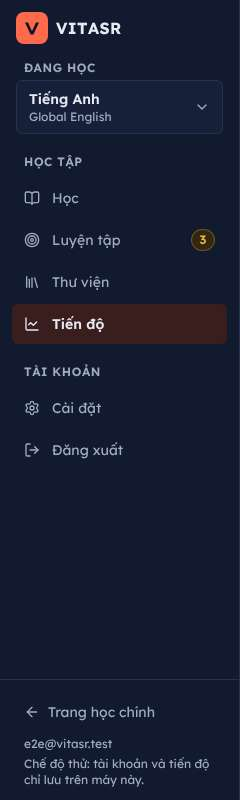
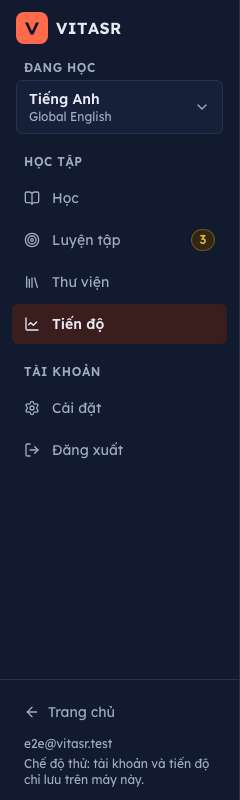
fix(APP-12, C5-07): liên kết cuối thanh bên là Trang chủ về Landing của website, đi qua chặn rời phiên; bỏ liên kết tới trang học chính cũ và biến NEXT_PUBLIC_HOST_URL; test APP-AC18, C5-AC06; ảnh APP-AC19 chụp lại

diff --git a/tests/unit/shell.test.tsx b/tests/unit/shell.test.tsx
@@ -1,7 +1,6 @@
 // Khung khu học C5 (thanh bên, header, menu trượt) và các phần của khung app đi kèm (APP-02, APP-12, APP-15).
 import { afterEach, describe, expect, it } from 'vitest';
 import { fireEvent, screen, within } from '@testing-library/react';
-import { HOST_URL } from '@/lib/host-url';
 import { NOW, TEST_USER, fakeAuth, here, renderApp, settingsSeed, settle } from './helpers';
 import { routerCalls } from './router-mock';
 
@@ -135,19 +134,37 @@ describe('C5 Khung khu học', () => {
   });
 
   // @ac C5-AC06, APP-AC18
-  it('chân thanh bên: liên kết Trang học chính, email người đang đăng nhập, dòng chế độ thử', async () => {
+  it('chân thanh bên: liên kết Trang chủ về Landing, email người đang đăng nhập, dòng chế độ thử', async () => {
     const a = await renderApp('/hoc', { seed: settingsSeed() });
-    const host = within(sidebar()).getByRole('link', { name: 'Trang học chính' });
-    expect(host).toHaveAttribute('href', HOST_URL);
-    expect(HOST_URL).toBe('https://language.pomaskhoahocnaobo.com/');
-    // Liên kết thường (không qua router của app): bấm thì rời app.
-    expect(host).toHaveAttribute('data-testid', 'host-link');
+    const home = within(sidebar()).getByRole('link', { name: 'Trang chủ' });
+    expect(home).toHaveAttribute('href', '/');
+    expect(home).toHaveAttribute('data-testid', 'home-link');
+    expect(document.querySelector('a[href*="pomaskhoahocnaobo"]')).toBeNull();
     expect(within(sidebar()).getByTestId('user-email')).toHaveTextContent(TEST_USER.email);
     expect(within(sidebar()).getByTestId('local-mode')).toHaveTextContent('Chế độ thử: tài khoản và tiến độ chỉ lưu trên máy này.');
     a.unmount();
     await renderApp('/hoc', { seed: settingsSeed(), auth: { ...fakeAuth(), mode: 'supabase' } });
     expect(within(sidebar()).queryByTestId('local-mode')).toBeNull();
     expect(within(sidebar()).getByTestId('user-email')).toHaveTextContent(TEST_USER.email);
+  });
+
+  // @ac APP-AC18
+  it('bấm Trang chủ giữa phiên học thì hỏi trước; ngoài phiên thì về Landing', async () => {
+    await renderApp('/hoc', { seed: settingsSeed() });
+    fireEvent.click(screen.getByRole('button', { name: 'Học 8 câu' }));
+    await settle(30);
+    const at = here();
+    expect(at).toMatch(/^\/phien-hoc/);
+    fireEvent.click(within(sidebar()).getByRole('link', { name: 'Trang chủ' }));
+    await settle(30);
+    expect(here()).toBe(at);
+    // Dừng về màn đã mở phiên (S3-07); bấm Trang chủ lần nữa thì về Landing.
+    fireEvent.click(within(screen.getByRole('dialog', { name: 'Dừng phiên học?' })).getByRole('button', { name: 'Dừng' }));
+    await settle(30);
+    expect(here()).toBe('/hoc');
+    fireEvent.click(within(sidebar()).getByRole('link', { name: 'Trang chủ' }));
+    await settle(30);
+    expect(here()).toBe('/');
   });
 });
 

diff --git a/tests/e2e/evidence-dot6.spec.ts b/tests/e2e/evidence-dot6.spec.ts
@@ -1020,7 +1020,7 @@ for (const theme of THEMES) {
     }
     await shot(page, 'APP-AC19', `1280-${theme}-chan-thanh-ben`, { el: '#app-sidebar' });
     out['chan-1280'] = await page.evaluate(() => {
-      const a = document.querySelector('[data-testid="host-link"]')!;
+      const a = document.querySelector('[data-testid="home-link"]')!;
       const sb = document.getElementById('app-sidebar')!;
       return { text: a.textContent, href: a.getAttribute('href'), h: Math.round(a.getBoundingClientRect().height), icon: a.querySelector('svg')?.getAttribute('class'), email: document.querySelector('[data-testid="user-email"]')?.textContent, chanThanhBen: (sb.lastElementChild as HTMLElement).innerText };
     });
@@ -1048,7 +1048,7 @@ for (const theme of THEMES) {
       header: header375,
       lopPhu: await page.getByTestId('menu-overlay').evaluate((e) => ({ nen: getComputedStyle(e).backgroundColor, z: getComputedStyle(e).zIndex })),
       muc: await page.locator('#app-sidebar nav a').evaluateAll((els) => els.map((a) => (a.textContent || '').trim())),
-      chan: await page.evaluate(() => Math.round(document.querySelector('[data-testid="host-link"]')!.getBoundingClientRect().height)),
+      chan: await page.evaluate(() => Math.round(document.querySelector('[data-testid="home-link"]')!.getBoundingClientRect().height)),
     };
     for (const [tab, route] of [
       ['T1', '/hoc'],
@@ -1244,7 +1244,7 @@ test('FND-AC16 chỉ dùng bàn phím: T1 → S3 → tổng kết → T4', async
   await focusTo('Thư viện');
   await shot(page, 'FND-AC16', '01-T1-focus-thanh-ben');
   log['01'] = await ring();
-  await focusTo('Trang học chính');
+  await focusTo('Trang chủ');
   await shot(page, 'FND-AC16', '02-T1-focus-trang-hoc-chinh');
   log['02'] = await ring();
   await focusTo(/^Học \d câu$/);

diff --git a/src/components/layout/public-footer.tsx b/src/components/layout/public-footer.tsx
@@ -1,9 +1,7 @@
-// @spec LP-06, APP-12
-import { ArrowLeft } from 'lucide-react';
+// @spec LP-06
 import { getTranslations } from 'next-intl/server';
 import { Link } from '@/i18n/navigation';
 import { PUBLIC_PATH } from '@/lib/routes';
-import { HOST_URL } from '@/lib/host-url';
 
 export async function PublicFooter() {
   const t = await getTranslations('public');
@@ -23,15 +21,6 @@ export async function PublicFooter() {
                 {t('register')}
               </Link>
             </li>
-            {HOST_URL && (
-              <li>
-                {/* APP-12: liên kết về trang học chính có icon mũi tên trái, như ở chân thanh bên. */}
-                <a className="inline-flex min-h-11 items-center gap-1.5 hover:text-foreground hover:underline" href={HOST_URL}>
-                  <ArrowLeft className="size-4 flex-none" aria-hidden />
-                  {t('hostLink')}
-                </a>
-              </li>
-            )}
           </ul>
         </nav>
       </div>

diff --git a/src/components/layout/home-link.tsx b/src/components/layout/home-link.tsx
@@ -1,0 +1,24 @@
+'use client';
+// @spec APP-12, C5-07
+// Liên kết "Trang chủ" ở chân thanh bên: về Landing của website. Đi qua AppLink để giữa phiên học vẫn hỏi trước khi rời (S3-07).
+import { ArrowLeft } from 'lucide-react';
+import { useTranslations } from 'next-intl';
+import { AppLink } from '@/components/ui/app-link';
+import { PUBLIC_PATH } from '@/lib/routes';
+import { cn } from '@/lib/utils';
+
+
+export function HomeLink({ className, onClick }: { className?: string; onClick?: () => void }) {
+  const t = useTranslations('shell');
+  return (
+    <AppLink
+      className={cn('flex min-h-10 items-center gap-2 rounded-dropdown px-3 py-2 text-sm text-muted-foreground hover:bg-muted hover:text-foreground', className)}
+      href={PUBLIC_PATH.home}
+      onClick={onClick}
+      data-testid="home-link"
+    >
+      <ArrowLeft className="size-4 flex-none" aria-hidden />
+      {t('homeLink')}
+    </AppLink>
+  );
+}

diff --git a/src/components/layout/app-shell.tsx b/src/components/layout/app-shell.tsx
@@ -17,7 +17,7 @@ import { statusBadgeClass } from '@/utils/status-badge-colors';
 import { useAuth } from '@/providers/auth-provider';
 import { useLearning } from '@/providers/learning-provider';
 import { Brand } from './brand';
-import { HostLink } from './host-link';
+import { HomeLink } from './home-link';
 import { languageButtonClass, useLanguageSheet } from './language-sheet';
 import { LocaleSwitcher } from './locale-switcher';
 import { ThemeToggle } from './theme-toggle';
@@ -146,7 +146,7 @@ function Sidebar({ open, onClose, desktop }: { open: boolean; onClose: () => voi
         </NavGroup>
       </nav>
       <div className="flex flex-none flex-col gap-1 border-t border-sidebar-border px-3 py-3">
-        <HostLink />
+        <HomeLink onClick={onClose} />
         {user && (
           <p className="truncate px-3 text-xs text-muted-foreground" title={user.email} data-testid="user-email">
             {user.email}
